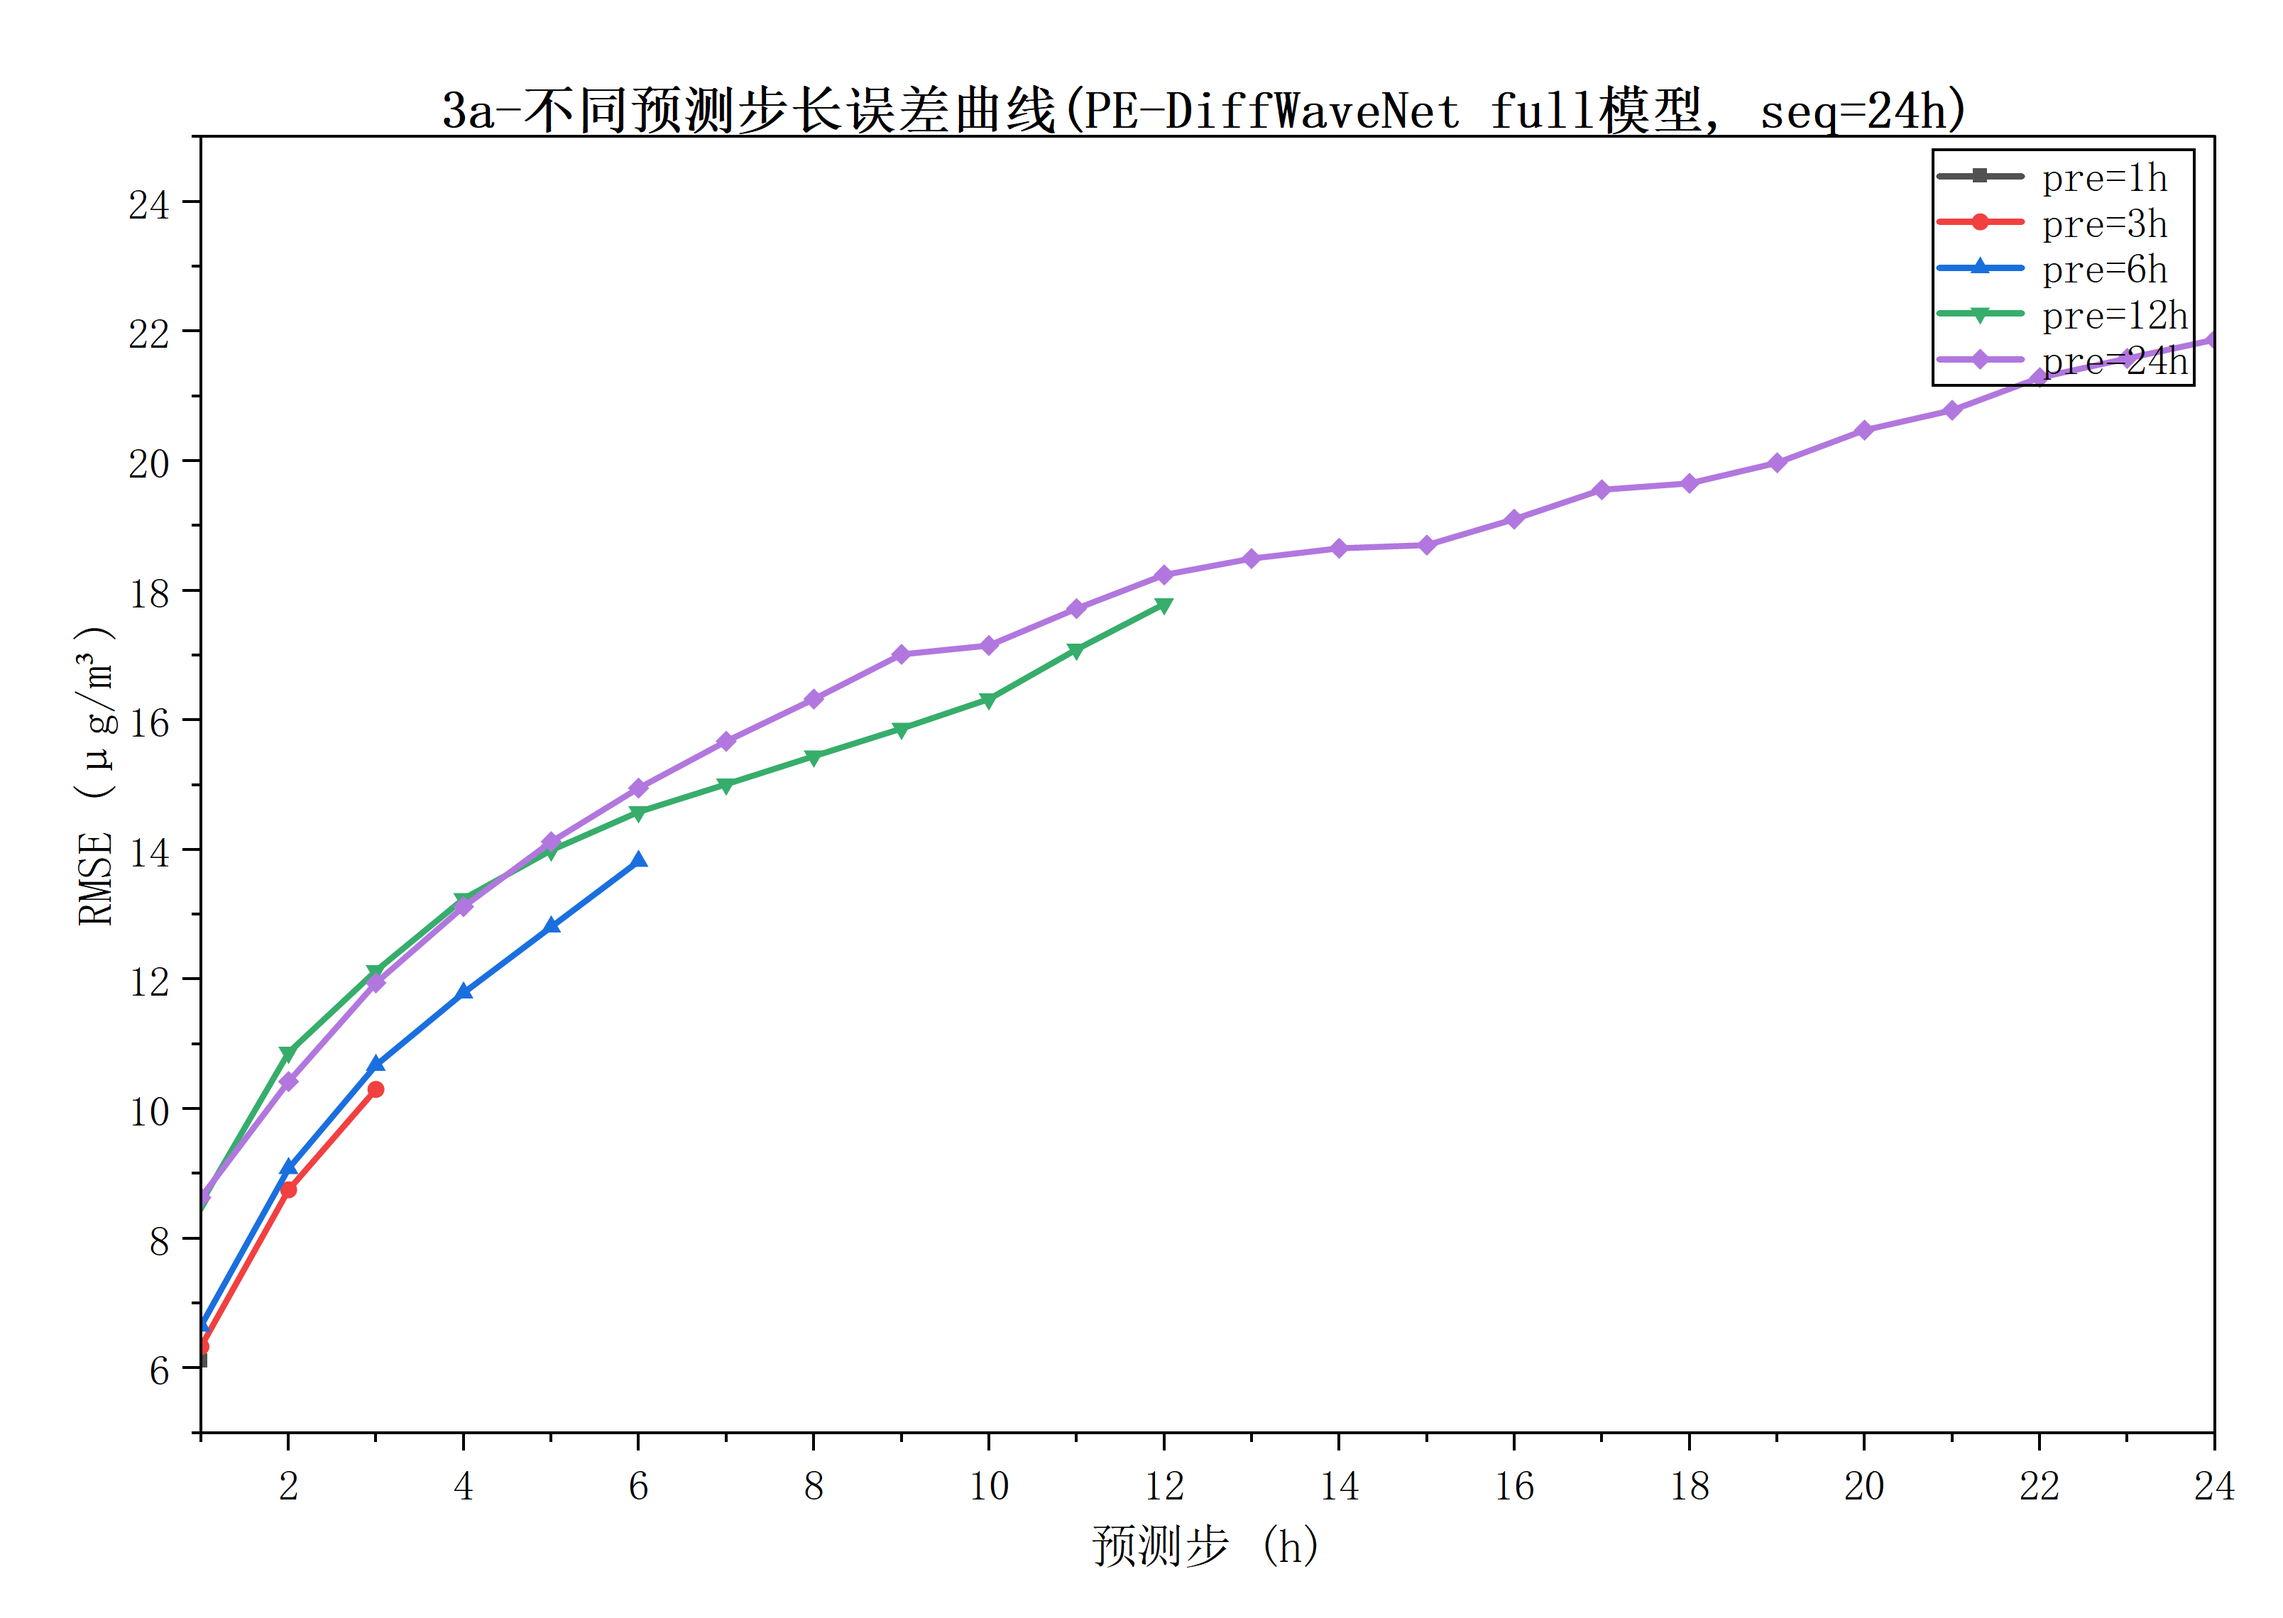
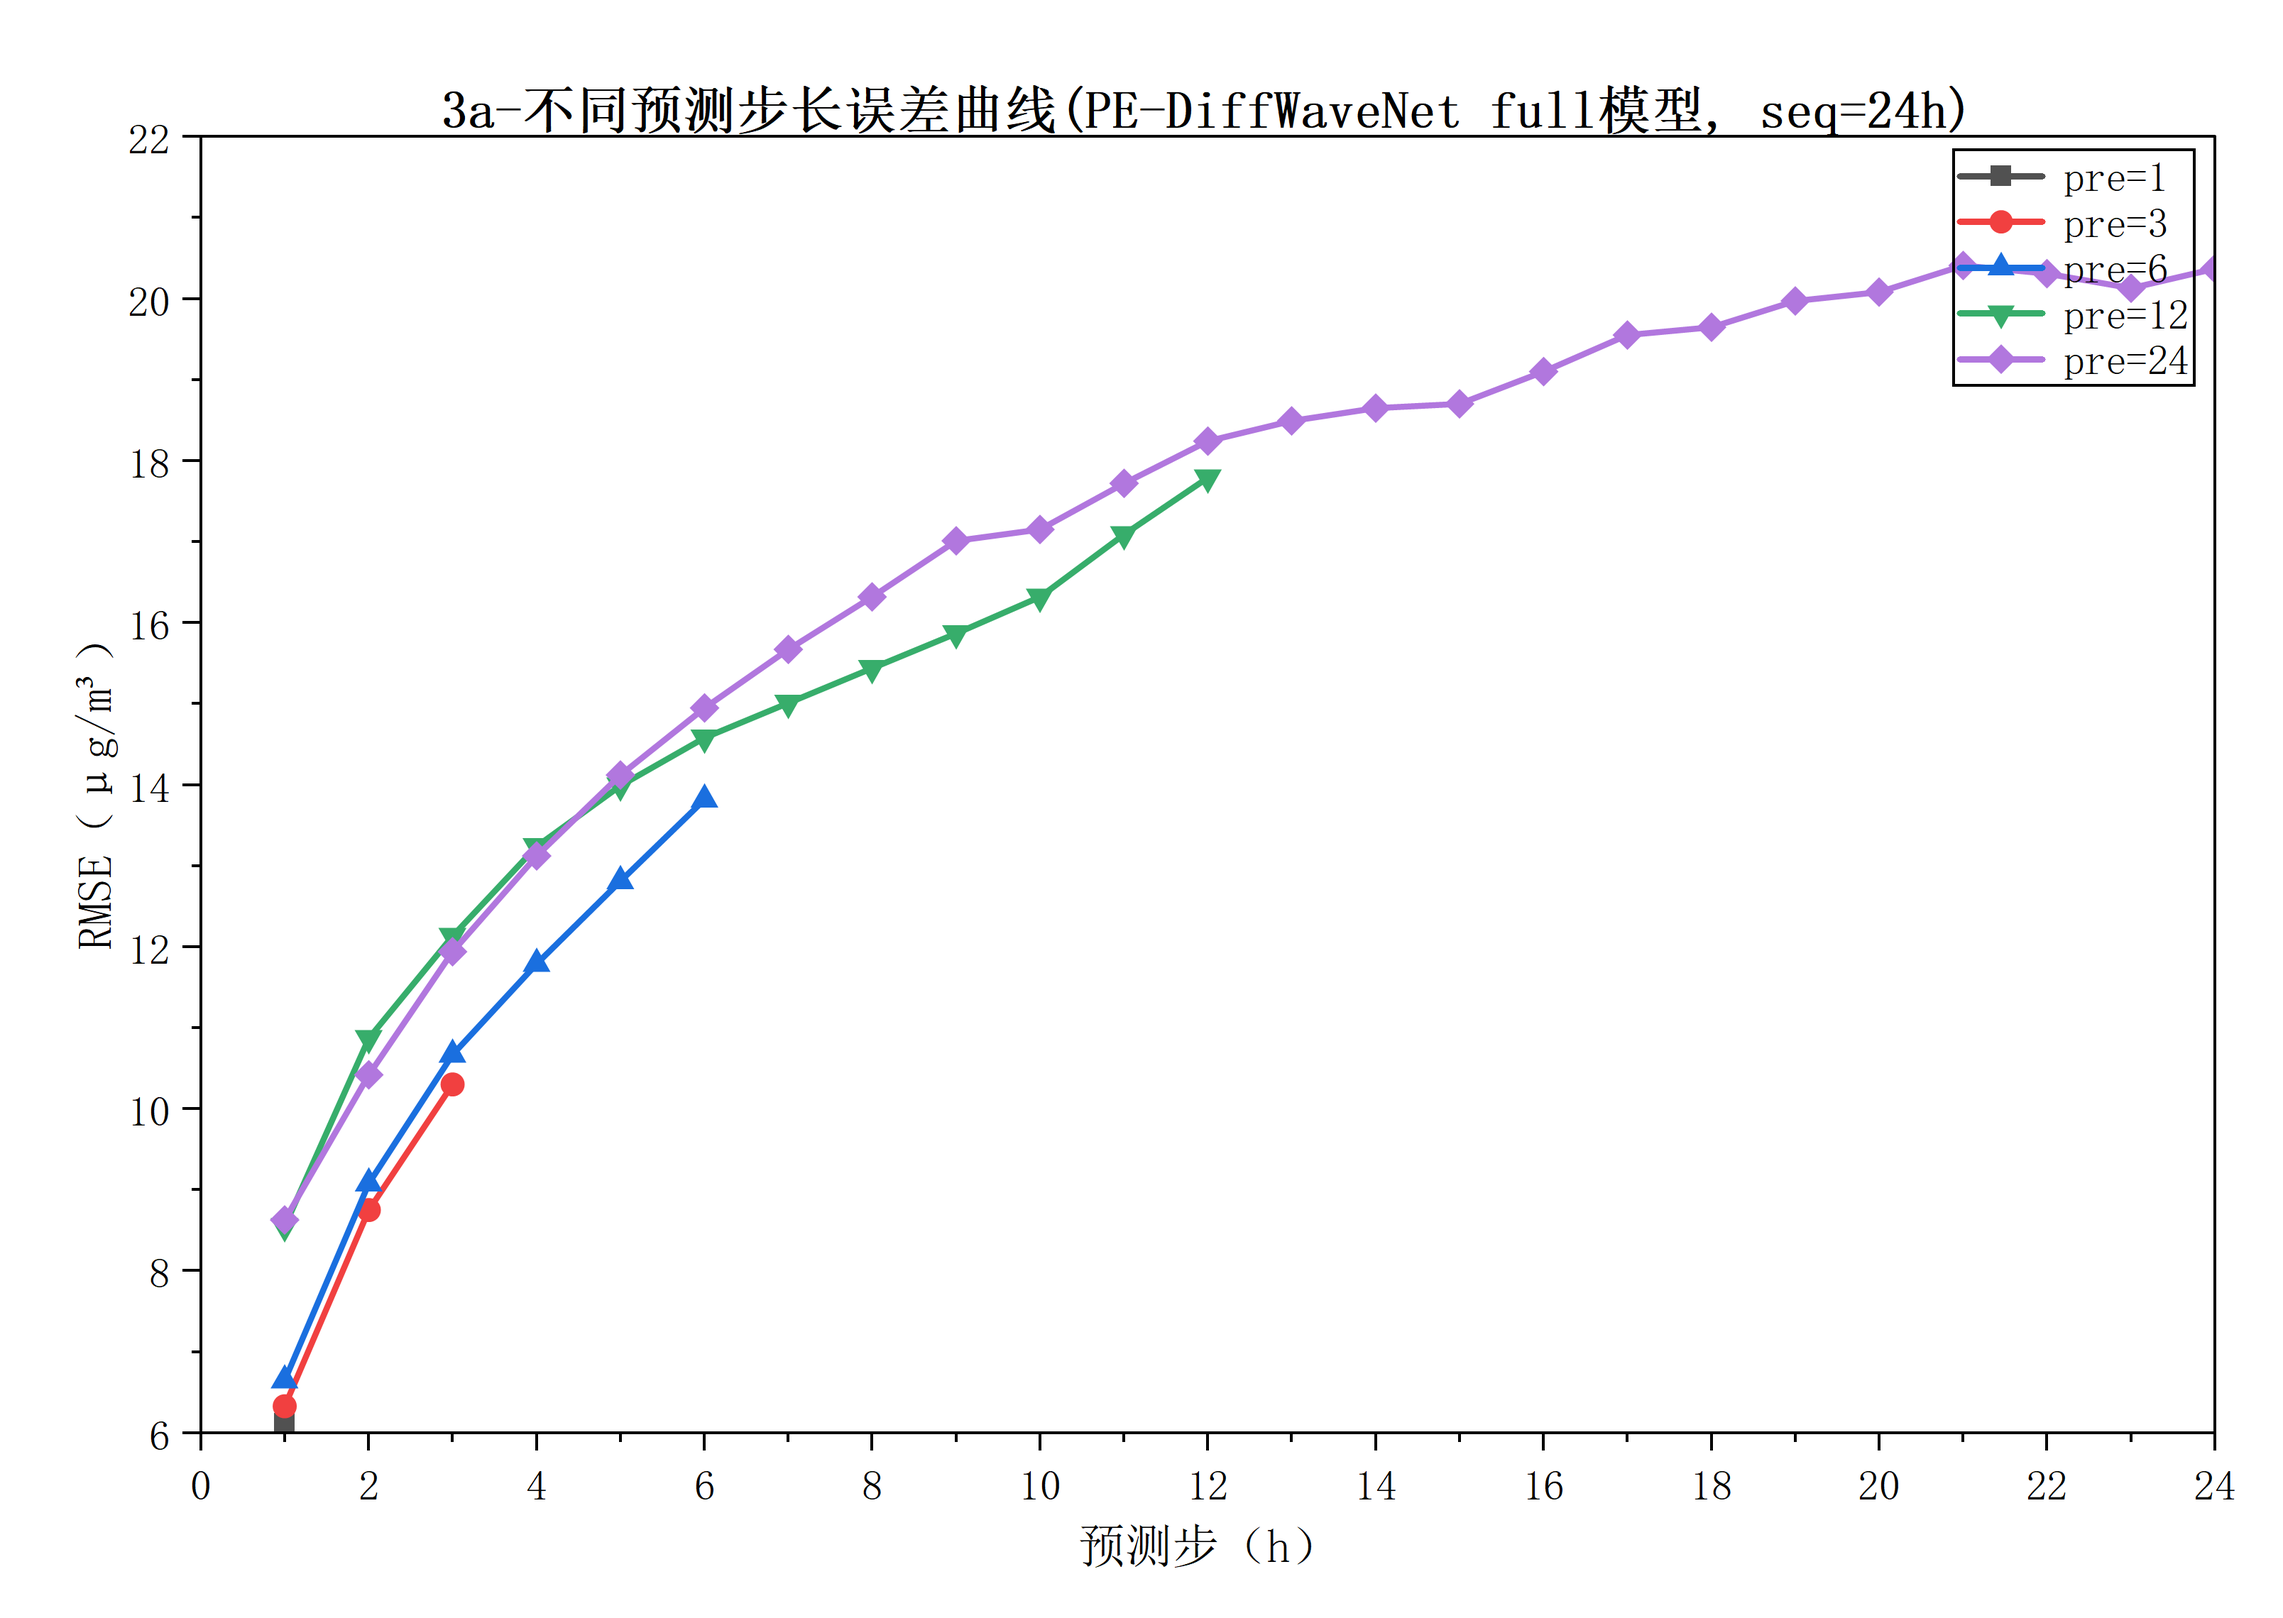
week3工作大汇总

diff --git a/week3/README.md b/week3/README.md
@@ -8,14 +8,19 @@
 week3/
 ├── README.md                    ← 本文件
 ├── data/                        ← 提取好的 CSV 数据
-│   ├── 1_main_table.csv
-│   ├── 2_ablation_table.csv
-│   ├── 3_perstep_rmse.csv
-│   ├── 4_predictions.csv        ← 需从输出目录提取
-│   ├── 5_station_error.csv      ← 需从输出目录提取
-│   ├── 6_peak_error.csv
-│   └── 7_pe_waterfall.csv
-├── charts/                      ← Origin .opju 项目文件
+│   ├── 1_main_table.csv         ← 主对比表
+│   ├── 2_ablation_table.csv     ← 消融实验表（含 seed=42/52/62）
+│   ├── 3a_perstep_prelen.csv    ← 不同预测步长 per-step RMSE
+│   ├── 3b_perstep_ablation.csv  ← 消融对比 per-step RMSE（含 seed=42/52/62）
+│   ├── 4_predictions_station0~40.csv
+│   ├── 5_station_error.csv
+│   ├── 6_peak_error.csv         ← 峰值误差对比（含 seed=42/52/62）
+│   ├── 7_pe_features.csv        ← PE 多尺度特征
+│   ├── 8_ci_avg_station20.csv
+│   └── 8_ci_station20.csv
+├── scripts/                     ← 数据提取脚本
+│   ├── extract_predictions.py
+│   └── extract_station_error.py
 └── output/                      ← 导出的 PNG/TIFF
 ```
 
@@ -30,30 +35,25 @@ week3/
 **数据行**:
 - PE-DiffWaveNet full, seq=24, pre=6, seed=42 → A08: RMSE 11.07
 - PE-DiffWaveNet full, seq=24, pre=3, seed=42 → A06: RMSE **8.62** (最佳)
-- PE-DiffWaveNet full, seq=24, pre=6, seed=52 → C04: RMSE 11.01
-- DiffSTG O3 → RMSE 0.0628 (z-score, 需换算)
-- DiffSTG PM2.5 → RMSE 0.0537
-- DiffSTG PM10 → RMSE 0.0400
 
-**操作**: 手动录入 Origin 工作簿，加表头格式导出
+**Origin**: 手动录入或导入 `1_main_table.csv`
 
 ---
 
 ## 图表 2: 消融实验表
 
-**说明**: 固定 pre=6, seq=24，4 种消融类型的 RMSE 对比
+**说明**: 固定 pre=6, seq=24，4 种消融类型的 RMSE 对比（3 seed）
 
-**数据来源**: `week2_summary.csv`
+**数据来源**: `2_ablation_table.csv`
 
-**数据**:
-| 消融 | seed=42 | seed=52 |
-|------|:---:|:---:|
-| full | A08: 11.07 | C04: 11.01 |
-| no_diff | A04: 11.04 | C08: 10.88 |
-| no_pe_graph | B03: 11.60 | D03: 11.11 |
-| no_pe_film | B07: 12.06 | D07: 11.31 |
+| 消融 | seed=42 | seed=52 | seed=62 |
+|------|:-------:|:-------:|:-------:|
+| full | A08: 11.07 | C03: 11.01 | C11: 11.68 |
+| no_diff | A04: 11.04 | C07: 11.05 | C15: 10.68 |
+| no_pe_graph | B03: 11.60 | D03: 11.44 | A12: 11.16 |
+| no_pe_film | B07: 12.06 | D07: 11.60 | E08: 12.49 |
 
-**Origin**: 分组柱状图，X=消融类型，Y=RMSE，两组柱=seed42/52
+**Origin**: 分组柱状图，X=消融类型，Y=RMSE，每组 3 根柱=seed42/52/62
 
 ---
 
@@ -61,9 +61,7 @@ week3/
 
 **说明**: per-step RMSE 折线图，看 RMSE 随预测步长增长
 
-**数据来源**: 每个实验的 `metrics_summary.json` → `per_step_rmse`
-
-**数据提取**: 见下方说明
+**数据来源**: `3a_perstep_prelen.csv`
 
 **图 3A**: full 模型 pre=1,3,6,12,24 的 per-step RMSE
 - E01 (pre=1): 1 个值
@@ -72,51 +70,47 @@ week3/
 - E02 (pre=12): 12 个值
 - E03 (pre=24): 24 个值
 
-**图 3B**: 同 pre=6，4 种消融对比
+**图 3B**: 同 pre=6，4 种消融对比（seed=42）
 - full (A08), no_diff (A04), no_pe_graph (B03), no_pe_film (B07)
 
 **Origin**: X=Step, Y=RMSE，每条曲线一个实验
 
 ---
 
-## 图表 4: 真实值 vs 预测值 ⚠
+## 图表 4: 真实值 vs 预测值
 
-**说明**: 取最佳模型 (A06)，选某个站点某个时间段画预测 vs 真实对比
+**说明**: 取最佳模型 (A06)，选某个站点画预测 vs 真实对比
 
-**数据来源**: A06 的 `test_predictions.npy` + `test_targets.npy`
+**数据来源**: A06 的 `test_predictions.npy` + `test_targets.npy`，已提取为 `4_predictions_station*.csv`
 
-**文件位置**: 
-```
-臭氧预测资料/matrix_N95_PEDiffWaveNet_noleak_g3_pedw_p3_l24_s42/
-├── test_predictions.npy   ← 预测值
-└── test_targets.npy       ← 真实值
-```
-
-**提取方法**: 把你的文件路径告诉我，我帮你跑脚本提取成 CSV
-
-**Origin**: 散点图或折线图，X=时间, Y=臭氧值, 两条线=真实/预测
+**Origin**: 折线图，X=时间, Y=臭氧值, 两条线=真实/预测
 
 ---
 
-## 图表 5: 站点误差分布 ⚠
+## 图表 5: 站点误差分布
 
-**说明**: 95 个站点各自的 RMSE，看哪些站点预测不准
+**说明**: 95 个站点各自的 RMSE
 
-**数据来源**: 同上文件，按站点算 RMSE
-
-**提取方法**: `test_predictions.npy` shape=(N_test, pre_len, 95)，第 3 维=站点
+**数据来源**: `5_station_error.csv`
 
 **Origin**: 柱状图，X=站点ID, Y=RMSE
 
 ---
 
-## 图表 6: 高值区误差
+## 图表 6: 峰值误差对比
 
-**说明**: 峰值时刻的预测误差
+**说明**: 峰值时刻的预测误差（3 seed × 4 消融类型）
 
-**数据来源**: 每个实验 `metrics_summary.json` → `peak_rmse`、`peak_mae`
+**数据来源**: `6_peak_error.csv`
 
-**数据**: 直接从已有 metrics_summary.json 取值，和图表 2 一起画
+| 消融 | seed=42 RMSE | seed=52 RMSE | seed=62 RMSE |
+|------|:-----------:|:-----------:|:-----------:|
+| full | 13.93 | 12.08 | 14.04 |
+| no_diff | 15.36 | 13.66 | 13.43 |
+| no_pe_graph | 13.19 | 12.69 | 13.39 |
+| no_pe_film | 13.16 | 15.17 | 13.79 |
+
+**Origin**: 分组柱状图，和图表 2 样式一致
 
 ---
 
@@ -133,3 +127,17 @@ week3/
 | no_pe_film (f=0) | B07: 12.06 |
 
 **Origin**: 瀑布图 (Waterfall)
+
+---
+
+## 图表 8: DiffSTG 概率预测
+
+**说明**: DiffSTG 的概率预测结果可视化
+
+- DiffSTG 不同预测步长误差曲线
+- DiffSTG 多污染物预测对比
+- DiffSTG 概率预测置信区间
+- DIFFSTG 各实验概率评分（CRPS）对比
+- DiffSTG 邻接矩阵对比
+
+**数据来源**: DiffSTG 实验输出
